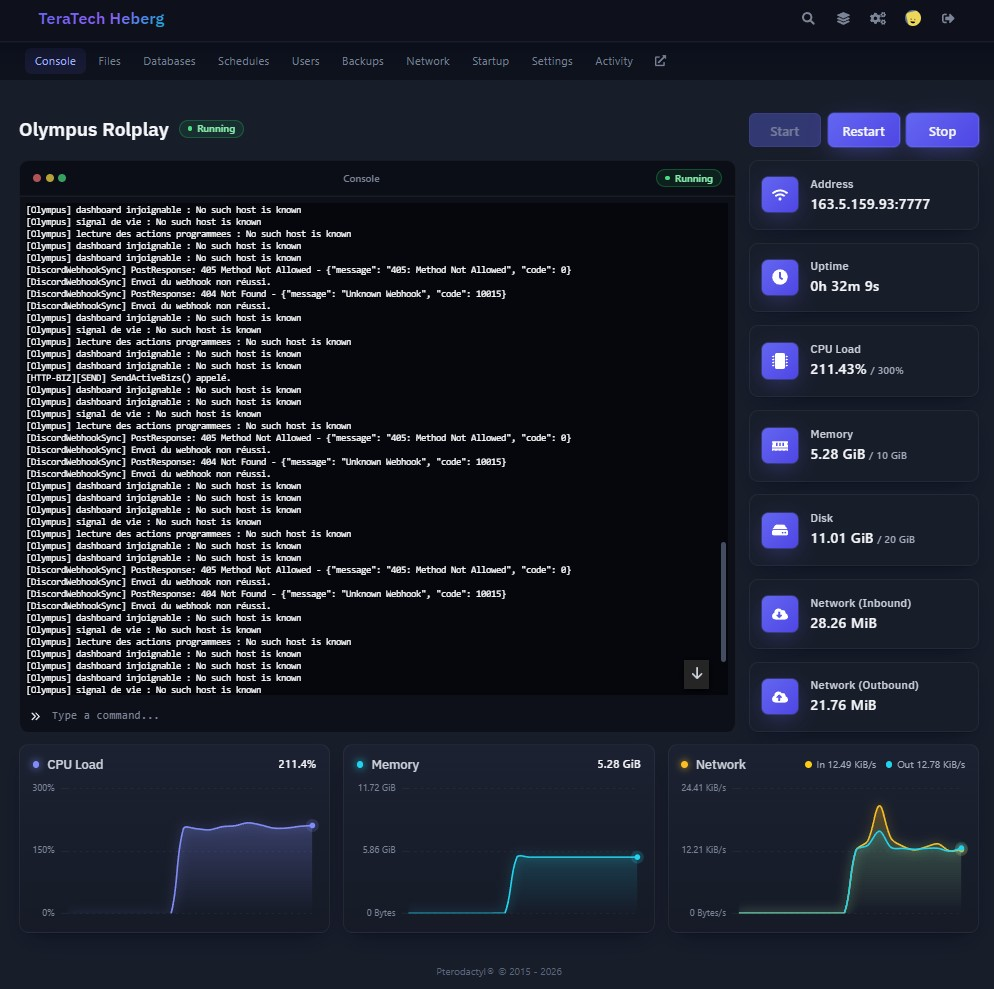
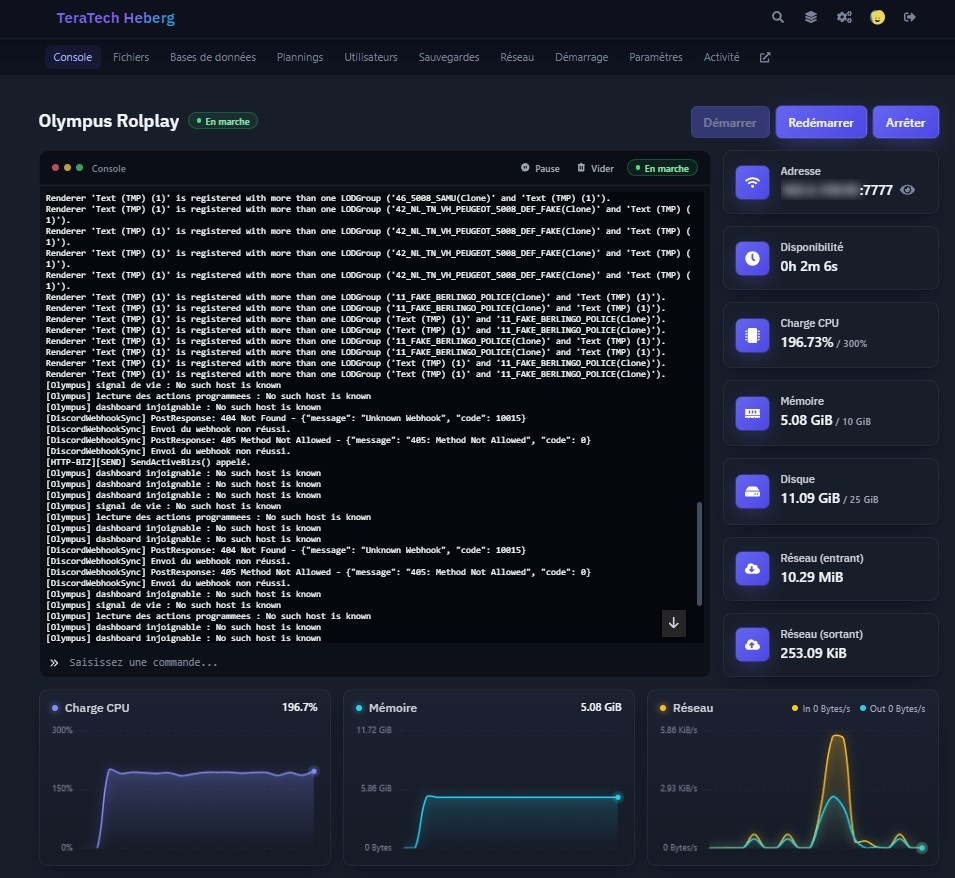
Add panel copyright helper

diff --git a/app/Services/Helpers/Copyright.php b/app/Services/Helpers/Copyright.php
@@ -1,0 +1,30 @@
+<?php
+
+namespace Pterodactyl\Services\Helpers;
+
+/**
+ * The copyright line at the bottom of the pages. The panel's own line is shown until an administrator writes another
+ * one in Admin > Settings.
+ */
+class Copyright
+{
+    /**
+     * The custom line, or null while the default one is used. "{year}" stands for the current year.
+     *
+     * @return array{text: string, url: string|null}|null
+     */
+    public static function custom(): ?array
+    {
+        $text = trim((string) config('pterodactyl.copyright.text', ''));
+        if ($text === '') {
+            return null;
+        }
+
+        $url = trim((string) config('pterodactyl.copyright.url', ''));
+
+        return [
+            'text' => str_replace('{year}', date('Y'), $text),
+            'url' => preg_match('#^https?://#i', $url) === 1 ? $url : null,
+        ];
+    }
+}
